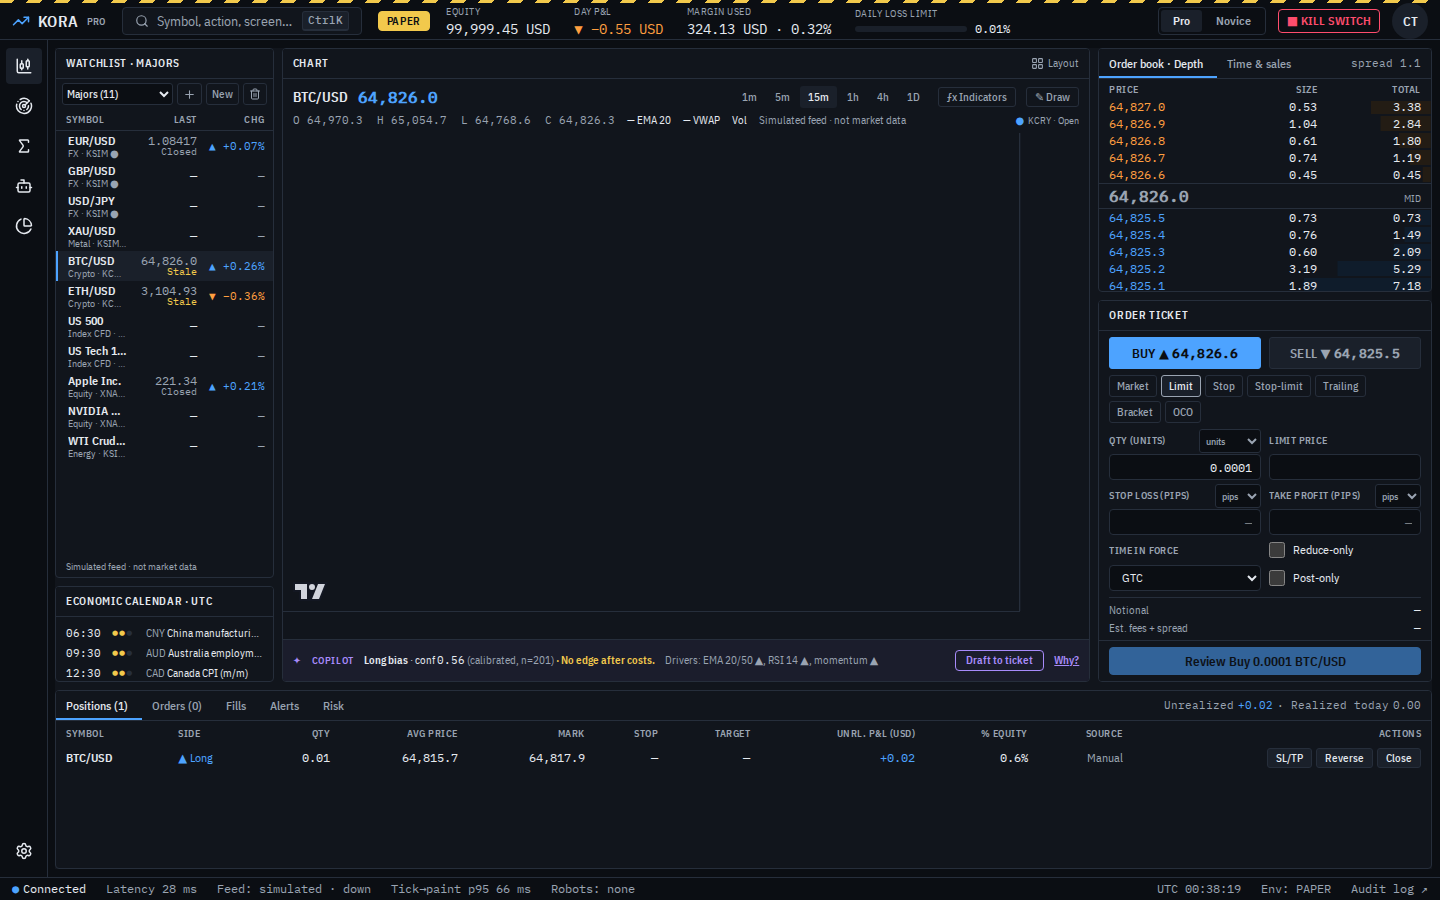
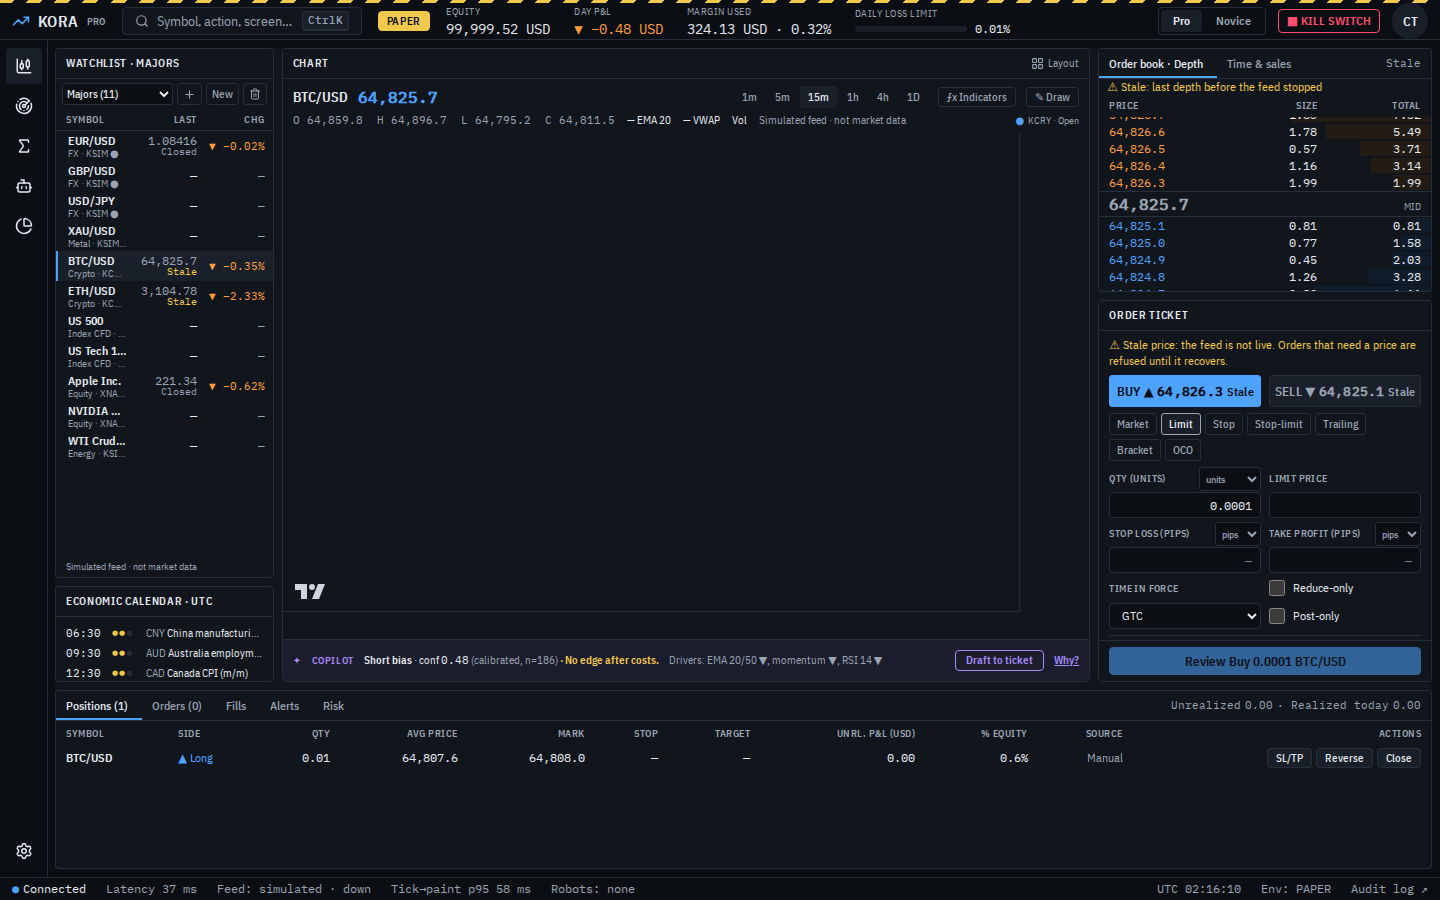
fix(ui): ticket and order book mark a stale price while the feed is down; test(chaos): drill checks the markers (40/40)
Claude-Session: https://claude.ai/code/session_018biYiGiYX7MXZ4hxaa6oKN

diff --git a/apps/web/src/components/terminal/panels/Ticket.tsx b/apps/web/src/components/terminal/panels/Ticket.tsx
@@ -118,7 +118,7 @@ export function TicketPanel() {
   const [origin, setOrigin] = useState<'manual' | 'ai' | string>('manual');
   const [note, setNote] = useState<string | null>(null);
   const [aiDraftId, setAiDraftId] = useState<string | null>(null);
-  const [quote, setQuote] = useState<{ bid: string; ask: string } | null>(null);
+  const [quote, setQuote] = useState<{ bid: string; ask: string; stale: boolean } | null>(null);
   const [preview, setPreview] = useState<PreviewResponse | null>(null);
   const [previewError, setPreviewError] = useState<string | null>(null);
   const [confirm, setConfirm] = useState(false);
@@ -153,7 +153,7 @@ export function TicketPanel() {
 
   useEffect(() => {
     setQuote(null);
-    return store.onQuote(symbol, (q) => setQuote({ bid: q.bid, ask: q.ask }));
+    return store.onQuote(symbol, (q) => setQuote({ bid: q.bid, ask: q.ask, stale: !!q.stale }));
   }, [store, symbol]);
 
   useEffect(() => {
@@ -399,12 +399,18 @@ export function TicketPanel() {
           ) : null}
         </p>
       ) : null}
+      {quote?.stale ? (
+        // Goal 10 chaos finding: the last price stayed on the buttons without a marker while the feed was down.
+        <p className="m-0 text-xs text-warn" role="status" data-testid="ticket-stale">
+          ⚠ Stale price: the feed is not live. Orders that need a price are refused until it recovers.
+        </p>
+      ) : null}
       <div className="grid grid-cols-2 gap-2" role="radiogroup" aria-label="Side">
         <button ref={buyRef} type="button" role="radio" aria-checked={side === 'buy'} onClick={() => setSide('buy')} className={`tk-side tk-side--buy ${side === 'buy' ? 'is-on' : ''}`} data-testid="ticket-side-buy">
-          BUY ▲ <span className="k-num">{quote ? formatPrice(quote.ask, precision) : ''}</span>
+          BUY ▲ <span className="k-num">{quote ? formatPrice(quote.ask, precision) : ''}</span>{quote?.stale ? <span className="text-xs"> Stale</span> : null}
         </button>
         <button ref={sellRef} type="button" role="radio" aria-checked={side === 'sell'} onClick={() => setSide('sell')} className={`tk-side tk-side--sell ${side === 'sell' ? 'is-on' : ''}`} data-testid="ticket-side-sell">
-          SELL ▼ <span className="k-num">{quote ? formatPrice(quote.bid, precision) : ''}</span>
+          SELL ▼ <span className="k-num">{quote ? formatPrice(quote.bid, precision) : ''}</span>{quote?.stale ? <span className="text-xs"> Stale</span> : null}
         </button>
       </div>
       <div role="radiogroup" aria-label="Order type" className="flex flex-wrap gap-1" data-testid="order-types">

diff --git a/apps/web/src/components/terminal/panels/OrderBook.tsx b/apps/web/src/components/terminal/panels/OrderBook.tsx
@@ -42,6 +42,13 @@ export function OrderBookPanel({ onTitleRight }: { onTitleRight?: (t: string) =>
     });
   }, [store, symbol]);
 
+  // Goal 10 chaos finding: mark the book stale when the symbol's quote is stale (feed down).
+  const [stale, setStale] = useState(false);
+  useEffect(() => {
+    setStale(false);
+    return store.onQuote(symbol, (q) => setStale(!!q.stale));
+  }, [store, symbol]);
+
   useEffect(() => {
     const b = bodyRef.current;
     if (!view || !b || centred.current) return;
@@ -53,8 +60,8 @@ export function OrderBookPanel({ onTitleRight }: { onTitleRight?: (t: string) =>
   const qtyPlaces = Math.min(spec?.qtyPrecision ?? 2, 2);
   const spreadText = view?.spread && spec && view.asks[0] && view.bids[0] ? formatSpread(view.bids[0].price, view.asks[0].price, spec) : '—';
   useEffect(() => {
-    onTitleRight?.(`spread ${spreadText}`);
-  }, [spreadText, onTitleRight]);
+    onTitleRight?.(stale ? 'Stale' : `spread ${spreadText}`);
+  }, [spreadText, stale, onTitleRight]);
 
   const fmtSize = (s: string) => {
     // Sizes shown in thousands for large FX books (prototype: 4.0 = 4.0M), otherwise at qty precision.
@@ -102,7 +109,12 @@ export function OrderBookPanel({ onTitleRight }: { onTitleRight?: (t: string) =>
   );
 
   return (
-    <div className="ob h-full flex flex-col min-h-0" data-testid="order-book" data-panel-root="orderbook" tabIndex={-1}>
+    <div className="ob h-full flex flex-col min-h-0" data-testid="order-book" data-panel-root="orderbook" data-stale={stale ? 'true' : 'false'} tabIndex={-1}>
+      {stale ? (
+        <p className="m-0 px-2 text-xs text-warn" role="status" data-testid="order-book-stale">
+          ⚠ Stale: last depth before the feed stopped
+        </p>
+      ) : null}
       <div className="ob-head" aria-hidden="true">
         <span>Price</span>
         <span className="text-right">Size</span>

diff --git a/apps/web/vitest.config.ts b/apps/web/vitest.config.ts
@@ -5,7 +5,7 @@ import { defineConfig, type ViteUserConfig } from 'vitest/config';
 // Goal 10 test-pyramid audit: coverage gate on the web app's pure logic (formatting, layout, route
 // rules, novice and simulator helpers). HTTP clients, stores and server-only helpers are covered by
 // the e2e suite. The v8 provider is resolved from the api workspace (same vitest version) because a
-// new direct dependency cannot be added here inside the 7-day minimumReleaseAge window (B-1002).
+// new direct dependency cannot be added here inside the 7-day minimumReleaseAge window (B-1012).
 const v8 = createRequire(new URL('../api/package.json', import.meta.url)).resolve('@vitest/coverage-v8');
 
 export default defineConfig({

diff --git a/docs/qa/chaos.md b/docs/qa/chaos.md
@@ -33,7 +33,7 @@ listening socket. After each fault the component is restarted and recovery is ch
 | No orders on stale data | **Pass.** Market orders during the feed outage → 422 `MARKET_DATA_STALE`; during the Redis outage → 422 `NO_MARKET_DATA`; zero fills for any order sent during an outage; no robot decision or order while quant was down. |
 | Recovery without duplicated orders | **Pass.** After each restart a new order fills exactly once, the client retry of the same `clientOrderId` replays (200, `idempotentReplay`), the retry of a refused order stays refused; no duplicated client order id and no over-filled order in the whole database; audit chain valid; reconciliation clean. |
 
-Overall: **39/39 checks passed** in 137 s (run of 2026-09-27; see `run.json` for the exact timings).
+Overall: **40/40 checks passed** in 143 s (re-run of 2026-09-27 after the stale-marker fix; see `run.json` for the exact timings; the per-step table below is from the first run).
 
 ## Findings fixed by the drill
 
@@ -47,9 +47,10 @@ Overall: **39/39 checks passed** in 137 s (run of 2026-09-27; see `run.json` for
 
 ## Observations for the backlog (not safety issues)
 
-- While the feed is down the order book and the ticket's buy/sell buttons keep showing the last
-  depth/quote without a stale marker (the server refuses the order and the watchlist shows Stale):
-  B-1001.
+- ~~While the feed is down the order book and the ticket's buy/sell buttons keep showing the last
+  depth/quote without a stale marker~~ **Fixed in goal 10:** the ticket shows "⚠ Stale price … orders
+  that need a price are refused" and "Stale" on both buttons, the order book shows a stale banner
+  (`data-stale`); the drill now checks both ("ticket and order book mark the price stale").
 - The status bar shows "Robots: none" for a user whose robot is running on the monitor: B-1002.
 
 ## Results
@@ -72,7 +73,7 @@ Fault: SIGKILL of the standalone feed process (md:feed).
 | t (s) | Check | Result | Evidence |
 |---|---|---|---|
 | 10.1 | api detects the lost feed heartbeat (status not ok / feedLost) | PASS | ms=2607, status="down", feedLost=true |
-| 12.9 | stale badge on the watchlist | PASS | quoteStale=true, badgeVisible=true, screenshot="docs/qa/chaos/screenshots/01-feed-down-stale-badges.png" |
+| 12.9 | stale badge on the watchlist (re-run adds: ticket and order book mark the price stale — PASS) | PASS | quoteStale=true, badgeVisible=true, screenshot="docs/qa/chaos/screenshots/01-feed-down-stale-badges.png" |
 | 12.9 | no order on stale data: market order refused with a data code | PASS | status=422, code="MARKET_DATA_STALE" |
 | 14.4 | no fill while the feed is down | PASS | fillsBefore=1, fillsAfter=1 |
 | 14.5 | kill switch works via REST while the feed is down | PASS | status=202, durationMs=15 |

diff --git a/docs/BACKLOG.md b/docs/BACKLOG.md
@@ -123,6 +123,7 @@ Ordered by the Product Owner. Anything found at a gate lands here and is schedul
 | B-914 | KYC provider integration behind the `KycProvider` interface (Sponsor contract and DPA, OQ-K1) | goal 09 | post-RC (Sponsor) | Open |
 | B-915 | Best-execution review workflow with thresholds and sign-off (OQ-X1) | goal 09 | post-RC | Open — re-targeted in goal 10: product feature, goal 10 fixes and does not add features |
 | B-916 | Grafana / Alertmanager: alert relay counters, four-eyes expiries, evidence export and anchor job health, SLO dashboards from `docs/runbooks/slos.md` (with B-012) | goal 09 | 10 | Done in goal 10 (with B-012): alert relay, four-eyes, anchors, backups and SLO panels and alerts |
-| B-1001 | Upgrade `vitest` / `@vitest/mocker` to ≥ 4.1.11 (moderate dev-only advisory: path traversal via redirect mocks) once past `minimumReleaseAge` and the suites pass on it | goal 10 dependency audit | post-RC | Open |
-| B-1002 | Add `@vitest/coverage-v8` as a direct devDependency of `apps/web` (the web coverage gate borrows the api's provider because a new dependency could not clear `minimumReleaseAge` during goal 10) | goal 10 | post-RC | Open |
-| B-1003 | Re-run the platform load test on staging hardware with ≥ 2 api replicas (E-1) and decide on a spike SLO / audit group commit (E-2) | goal 10 load test | post-RC | Open |
+| B-1011 | Upgrade `vitest` / `@vitest/mocker` to ≥ 4.1.11 (moderate dev-only advisory: path traversal via redirect mocks) once past `minimumReleaseAge` and the suites pass on it | goal 10 dependency audit | post-RC | Open |
+| B-1012 | Add `@vitest/coverage-v8` as a direct devDependency of `apps/web` (the web coverage gate borrows the api's provider because a new dependency could not clear `minimumReleaseAge` during goal 10) | goal 10 | post-RC | Open |
+| B-1013 | Re-run the platform load test on staging hardware with ≥ 2 api replicas (E-1) and decide on a spike SLO / audit group commit (E-2) | goal 10 load test | post-RC | Open |
+| B-1002 | Status bar shows "Robots: none" for a user whose robot is running on the monitor (chaos drill observation) | goal 10 chaos | post-RC | Open |

diff --git a/docs/security/scans.md b/docs/security/scans.md
@@ -14,4 +14,4 @@ building images.
 | DAST (OWASP ZAP baseline) | `release.yml` job `zap-baseline` against staging | **Deferred to staging**, owner S9 (ZAP cannot be installed here and there is no staging) | high fails |
 
 Moderate advisory follow-up: upgrade `vitest` to ≥ 4.1.11 when it clears the 7-day
-`minimumReleaseAge` window and the suite passes on it (B-1001, owner S10).
+`minimumReleaseAge` window and the suite passes on it (B-1011, owner S10).
